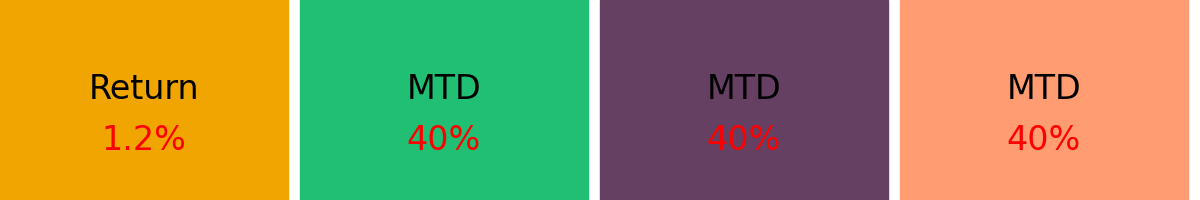
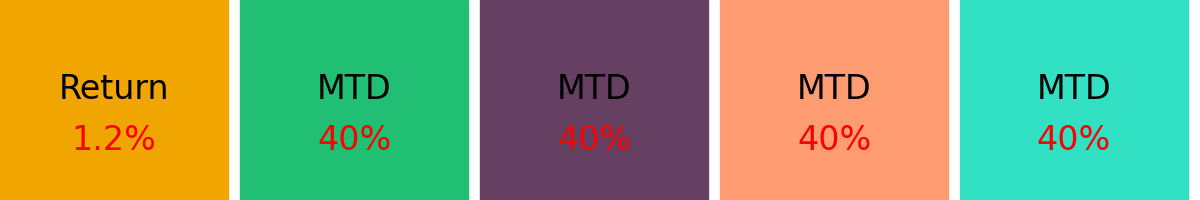
assignment

diff --git a/PythonTraining/Training/July07-BoxText.py b/PythonTraining/Training/July07-BoxText.py
@@ -2,7 +2,7 @@ import matplotlib.pyplot as plt
 import matplotlib.patches as patches
 
 # Box 1
-left, width = 0.0, 0.24
+left, width = 0.0, 0.19
 bottom, height = 0,1
 right = left + width
 top = 1
@@ -21,8 +21,8 @@ p = patches.Rectangle( (left,bottom),width,height,color = '#f0a500')
 ax.add_patch(p)
 # plt.show()
 
-kpi_lable = 'Return'
-return_p = '1.2%'
+kpi_lable = 'MHK'
+return_p = '125K'
 ax.text(0.5 * (left + right), 0.55 * (bottom + top), kpi_lable,
         ha = 'center',va = 'center',
         fontsize=24, color='black',
@@ -34,7 +34,7 @@ ax.text(0.5 * (left + right), 0.3 * (bottom + top), return_p,
         transform = ax.transAxes)
 #
 # # Box 2
-left, width = 0.25, 0.24
+left, width = 0.20, 0.19
 bottom, height = 0,1
 right = left + width
 top = 1
@@ -43,8 +43,8 @@ p = patches.Rectangle((left,bottom),width,height,color = '#21bf73')
 ax.add_patch(p)
 # plt.show()
 
-kpi_lable = 'MTD'
-return_p = '40%'
+kpi_lable = 'FRD'
+return_p = '80K'
 ax.text(0.5 * (left + right), 0.55 * (bottom + top), kpi_lable,
         ha = 'center',va = 'center',
         fontsize=24, color='black',
@@ -56,17 +56,17 @@ ax.text(0.5 * (left + right), 0.3 * (bottom + top), return_p,
         transform = ax.transAxes)
 
 # # Box 3
-left, width = 0.50, 0.24
+left, width = 0.40, 0.19
 bottom, height = 0,1
 right = left + width
 top = 1
 
-p = patches.Rectangle((left,bottom),width,height,color = '#654062')
+p = patches.Rectangle((left,bottom),width,height,color = '#fbc687')
 ax.add_patch(p)
 # plt.show()
 
-kpi_lable = 'MTD'
-return_p = '40%'
+kpi_lable = 'RNG'
+return_p = '240K'
 ax.text(0.5 * (left + right), 0.55 * (bottom + top), kpi_lable,
         ha = 'center',va = 'center',
         fontsize=24, color='black',
@@ -78,7 +78,7 @@ ax.text(0.5 * (left + right), 0.3 * (bottom + top), return_p,
         transform = ax.transAxes)
 # Save Images
 # # Box 4
-left, width = 0.75, .24
+left, width = 0.60, .19
 bottom, height = 0,1
 right = left + width
 top = 1
@@ -87,8 +87,29 @@ p = patches.Rectangle((left,bottom),width,height,color = '#ff9c71')
 ax.add_patch(p)
 # plt.show()
 
-kpi_lable = 'MTD'
-return_p = '40%'
+kpi_lable = 'MOT'
+return_p = '180K'
+ax.text(0.5 * (left + right), 0.55 * (bottom + top), kpi_lable,
+        ha = 'center',va = 'center',
+        fontsize=24, color='black',
+        transform = ax.transAxes)
+
+ax.text(0.5 * (left + right), 0.3 * (bottom + top), return_p,
+        ha = 'center',va = 'center',
+        fontsize=24, color='red',
+        transform = ax.transAxes)
+# # Box 5
+left, width = 0.80, .19
+bottom, height = 0,1
+right = left + width
+top = 1
+
+p = patches.Rectangle((left,bottom),width,height,color = '#32e0c4')
+ax.add_patch(p)
+# plt.show()
+
+kpi_lable = 'MIR'
+return_p = '45K'
 ax.text(0.5 * (left + right), 0.55 * (bottom + top), kpi_lable,
         ha = 'center',va = 'center',
         fontsize=24, color='black',
@@ -99,7 +120,8 @@ ax.text(0.5 * (left + right), 0.3 * (bottom + top), return_p,
         fontsize=24, color='red',
         transform = ax.transAxes)
 
-plt.savefig('BoxText.png')
+
+plt.savefig('box.png')
 
 plt.show()
 

diff --git a/PythonTraining/Training/July09-Email.py b/PythonTraining/Training/July09-Email.py
@@ -1,0 +1,55 @@
+# B.M.ASHIK MAHMUD
+# TRAINING PYTHON - AssignmentSending Email
+import smtplib
+from email.mime.image import MIMEImage
+from email.mime.multipart import MIMEMultipart
+from email.mime.text import MIMEText
+
+# ------------ Group email ----------------------------------------
+msgRoot = MIMEMultipart('related')
+me = 'erp-bi.service@transcombd.com'
+to = ['ashik.mahmud@transcombd.com', '']
+cc = ['', '']
+bcc = ['', '']
+
+recipient = to + cc + bcc
+
+subject = "Test report "
+
+email_server_host = 'mail.transcombd.com'
+port = 25
+
+msgRoot['From'] = me
+
+msgRoot['To'] = ', '.join(to)
+msgRoot['Cc'] = ', '.join(cc)
+msgRoot['Bcc'] = ', '.join(bcc)
+msgRoot['Subject'] = subject
+
+msg = MIMEMultipart()
+msgRoot.attach(msg)
+#
+# msgText = MIMEText('This is the alternative plain text message.')
+# msgAlternative.attach(msgText)
+
+msgText = MIMEText("""
+                       <img src="cid:img1_2"><br>
+                        <br>
+                       """, 'html')
+
+msg.attach(msgText)
+
+# --------- Set Credit image in mail   -----------------------
+img = open('F:/PythonLearning/PythonTraining/Training/two_image.png', 'rb')
+img1_2 = MIMEImage(img.read())
+img.close()
+
+img1_2.add_header('Content-ID', '<img1_2>')
+msgRoot.attach(img1_2)
+
+# # ----------- Finally send mail and close server connection ---
+server = smtplib.SMTP(email_server_host, port)
+server.ehlo()
+server.sendmail(me, recipient, msgRoot.as_string())
+server.close()
+print('Mail Send')

diff --git a/PythonTraining/Training/ASSIGNMENT-7.py b/PythonTraining/Training/ASSIGNMENT-7.py
@@ -1,19 +1,19 @@
 # B.M.ASHIK MAHMUD
-# TRAINING PYTHON - IMAGE JOIN
+# TRAINING PYTHON - Assignment 7
 
 from PIL import Image
 
-img1 = Image.open("F:/PythonLearning/PythonTraining/Training/fig/figure-A.png")
-img2 = Image.open("F:/PythonLearning/PythonTraining/Training/fig/figure-B.png")
+img1 = Image.open("F:/PythonLearning/PythonTraining/Training/box.png")
+img2 = Image.open("F:/PythonLearning/PythonTraining/Training/four.png")
 img3 = Image.open("F:/PythonLearning/PythonTraining/Training/fig/figure-C.png")
 img4 = Image.open("F:/PythonLearning/PythonTraining/Training/fig/figure-D.png")
 
 # img4.show()
    # JOIN TWO IMAGE
 width,height = img1.size
-imageSize = Image.new('RGB',(1200,480)) # Defininf the main Frame size
+imageSize = Image.new('RGB',(1200,1160)) # Defininf the main Frame size
 imageSize.paste(img1,(0,0))
-imageSize.paste(img2,(width,0))
+imageSize.paste(img2,(0,height))
 imageSize.save("two_image.png")
 
 imgJointwo = Image.open("F:/PythonLearning/PythonTraining/Training/two_image.png")
